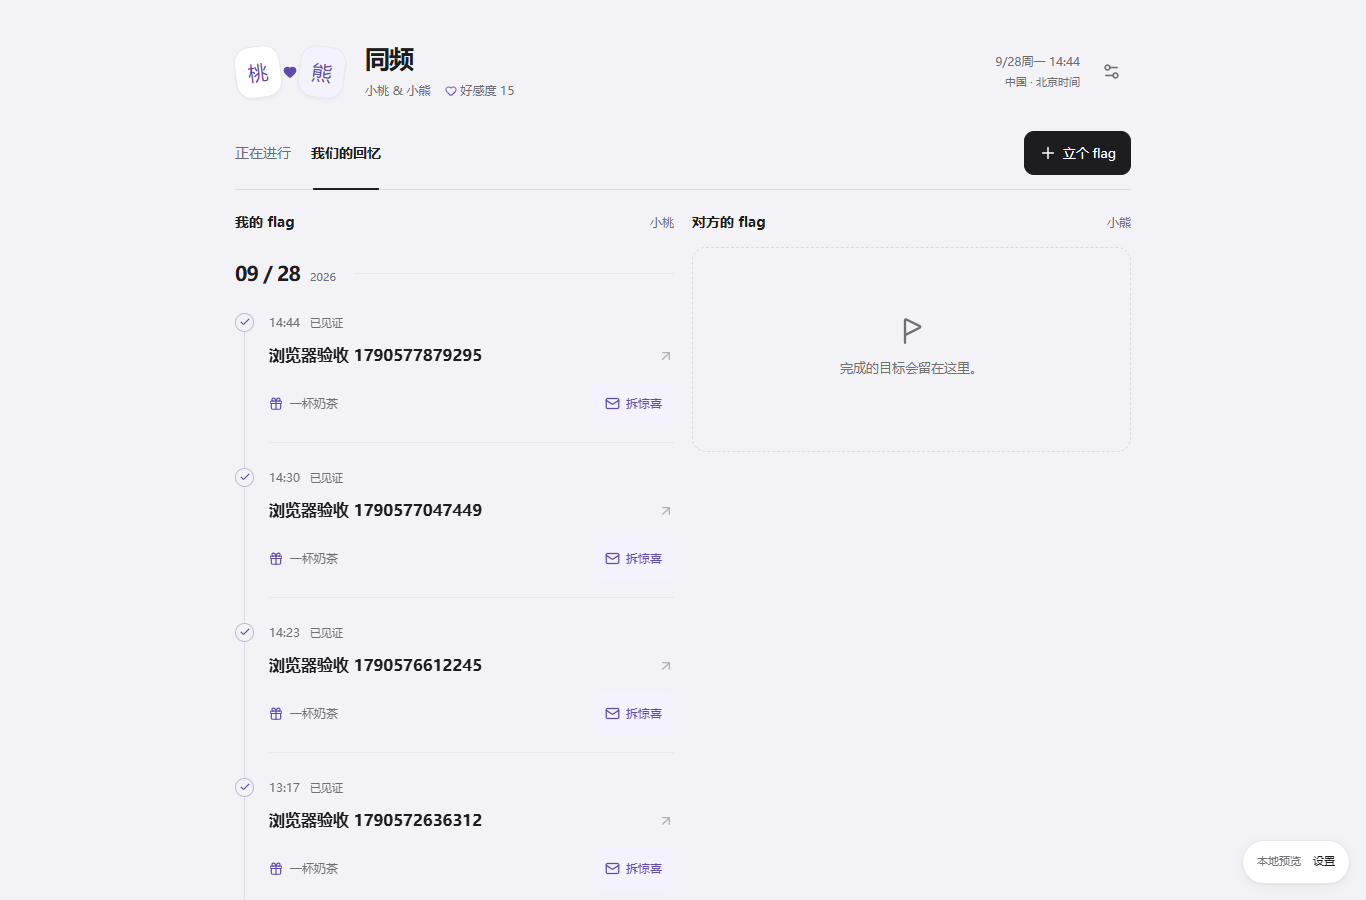
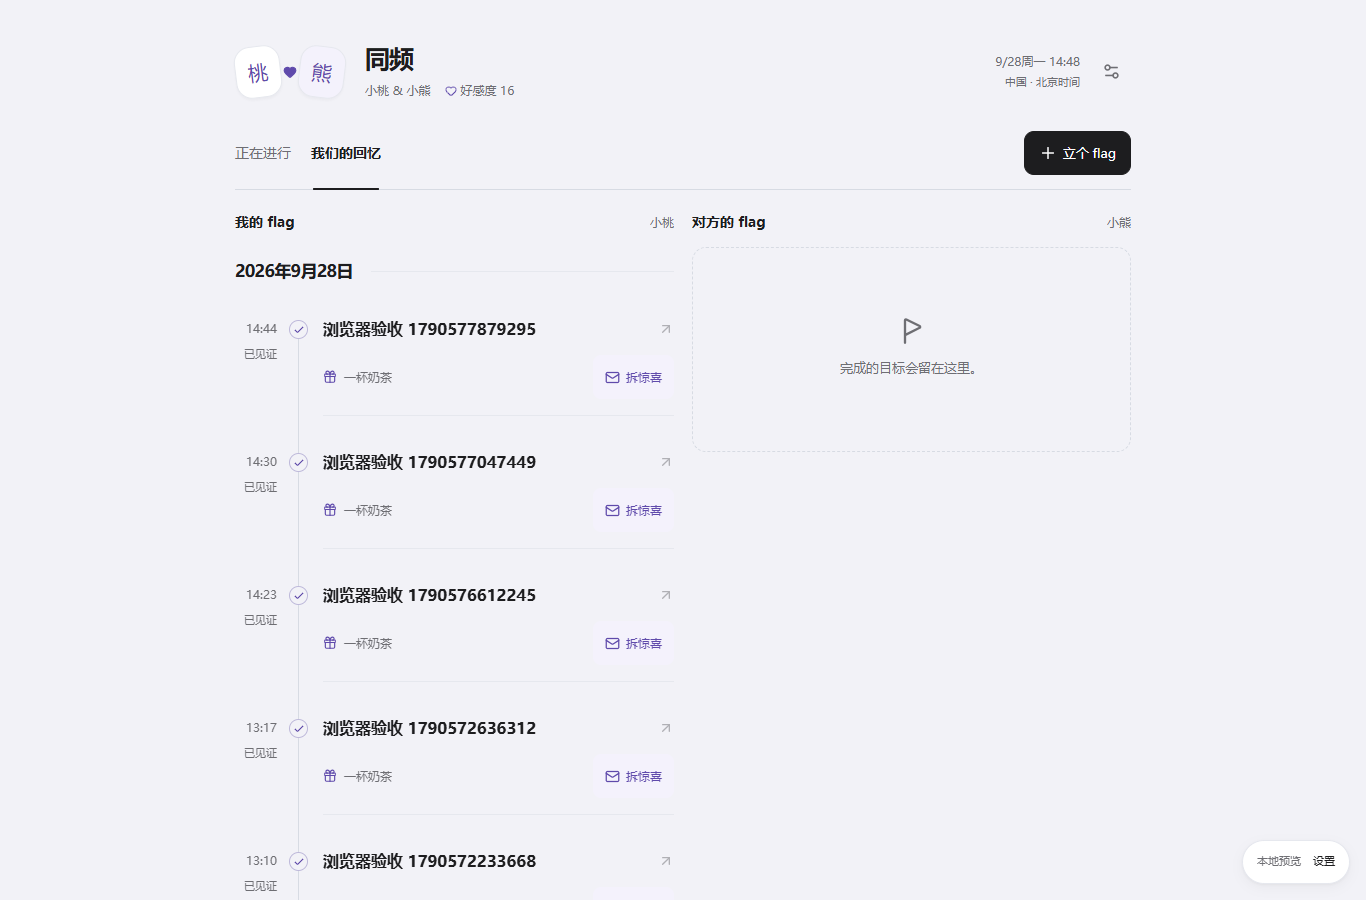
ui(together)：将回忆时刻移至左侧并明确完整日期

diff --git a/src/features/together/memory-timeline.tsx b/src/features/together/memory-timeline.tsx
@@ -1,4 +1,4 @@
-/** @fileoverview 回忆按查看者本地日期归档；细线连接完成节点，保留奖励与惊喜入口。 */
+/** @fileoverview 回忆按查看者本地日期归档；左侧显示日期与时刻，右侧保留目标、奖励与惊喜。 */
 'use client';
 import { ArrowUpRight, Check, Gift, Mail } from 'lucide-react';
 import { accountClockParts } from '@/lib/account-clock';
@@ -30,8 +30,9 @@ export function MemoryTimeline({
         <section className="together-memory-day" key={day} aria-label={day}>
           <h3>
             <time dateTime={day}>
-              <b>{day.slice(5).replace('-', ' / ')}</b>
-              <span>{day.slice(0, 4)}</span>
+              <b>
+                {day.slice(0, 4)}年{Number(day.slice(5, 7))}月{Number(day.slice(8))}日
+              </b>
             </time>
             <span className="together-memory-rule" aria-hidden="true" />
           </h3>
@@ -41,18 +42,18 @@ export function MemoryTimeline({
                 <span className="together-memory-dot" aria-hidden="true">
                   <Check size={12} />
                 </span>
+                <time
+                  className="together-memory-time"
+                  dateTime={flag.completed_at!}
+                  title={`${spaceTime(flag.completed_at!, zone)} · ${zone}`}
+                >
+                  {accountClockParts(new Date(flag.completed_at!), zone).time.slice(
+                    0,
+                    5,
+                  )}
+                  <span>已见证</span>
+                </time>
                 <div className="together-memory-content">
-                  <time
-                    className="together-memory-time"
-                    dateTime={flag.completed_at!}
-                    title={`${spaceTime(flag.completed_at!, zone)} · ${zone}`}
-                  >
-                    {accountClockParts(new Date(flag.completed_at!), zone).time.slice(
-                      0,
-                      5,
-                    )}
-                    <span>已见证</span>
-                  </time>
                   <button
                     className="together-memory-title"
                     onClick={() => onOpen(flag)}

diff --git a/src/features/together/memory-timeline.css b/src/features/together/memory-timeline.css
@@ -1,4 +1,4 @@
-/* 文件用途：回忆时间轴用日期、细线和完成节点替代重复的大卡片，跟随空间主题。 */
+/* 文件用途：左侧时间刻度与完整日期、中央细线、右侧成果构成轻量回忆时间轴。 */
 .together-memory-day {
   margin-bottom: 28px;
 }
@@ -15,7 +15,7 @@
   white-space: nowrap;
 }
 .together-memory-day h3 b {
-  font-size: 20px;
+  font-size: 17px;
   font-weight: 600;
   letter-spacing: -0.04em;
   font-variant-numeric: tabular-nums;
@@ -37,14 +37,14 @@
 }
 .together-memory-entry {
   position: relative;
-  padding: 0 0 24px 34px;
+  padding: 0 0 24px 88px;
 }
 .together-memory-entry::before {
   content: '';
   position: absolute;
-  left: 9px;
-  top: 16px;
-  bottom: -4px;
+  left: 63px;
+  top: 28px;
+  bottom: -14px;
   width: 1px;
   background: var(--border-strong);
 }
@@ -54,8 +54,8 @@
 }
 .together-memory-dot {
   position: absolute;
-  top: 1px;
-  left: 0;
+  top: 13px;
+  left: 54px;
   width: 19px;
   height: 19px;
   border: 1px solid color-mix(in srgb, var(--together-tone) 30%, var(--border));
@@ -74,9 +74,14 @@
   border-bottom: 0;
 }
 .together-memory-time {
+  position: absolute;
+  left: 0;
+  top: 11px;
+  width: 42px;
   display: flex;
-  align-items: center;
-  gap: 10px;
+  flex-direction: column;
+  align-items: flex-end;
+  gap: 3px;
   font-size: 12px;
   line-height: 22px;
   color: var(--text-secondary);

diff --git a/e2e/together.spec.ts b/e2e/together.spec.ts
@@ -139,6 +139,13 @@ test('四主题深浅色与手机布局，无横向溢出', async ({ page }) => 
         ).toBeVisible();
         await page.getByRole('button', { name: '我们的回忆', exact: true }).click();
         await expect(page.locator('.together-memory-entry').first()).toBeVisible();
+        const entry = page.locator('.together-memory-entry').first();
+        const clock = await entry.locator('.together-memory-time').boundingBox();
+        const content = await entry.locator('.together-memory-content').boundingBox();
+        expect(clock!.x + clock!.width).toBeLessThan(content!.x);
+        await expect(page.locator('.together-memory-day h3').first()).toContainText(
+          /\d{4}年\d{1,2}月\d{1,2}日/,
+        );
         expect(
           await page.evaluate(() => document.documentElement.scrollWidth <= innerWidth),
         ).toBe(true);

diff --git a/docs/together-copy.md b/docs/together-copy.md
@@ -133,6 +133,7 @@
 | 你在这里叫「                                                                 | binding.tsx                                                 |
 | 你做到啦。你的认真和努力，我都有好好看见。                                   | copy.ts                                                     |
 | 昵称双方可见，对方可以恢复自己的展示名。                                     | settings.tsx                                                |
+| 年                                                                           | memory-timeline.tsx                                         |
 | 情侣                                                                         | binding.tsx、copy.ts、settings.tsx                          |
 | 请                                                                           | flag-editor.tsx                                             |
 | 请补充一下                                                                   | copy.ts、flag-detail.tsx                                    |
@@ -154,6 +155,7 @@
 | 确认结束                                                                     | flag-detail.tsx                                             |
 | 确认解除绑定                                                                 | settings.tsx                                                |
 | 确认了新的关系                                                               | supabase/migrations/202609280001_together.sql               |
+| 日                                                                           | memory-timeline.tsx                                         |
 | 上次提交结果尚未确认，请先按原内容重试，或关闭后核对最新记录。               | use-command.ts                                              |
 | 生成邀请码                                                                   | binding.tsx                                                 |
 | 实时连接暂不可用，回到页面会重新读取。                                       | state.tsx                                                   |
@@ -202,6 +204,7 @@
 | 以前的空间                                                                   | settings.tsx                                                |
 | 有效至                                                                       | binding.tsx                                                 |
 | 与                                                                           | settings.tsx                                                |
+| 月                                                                           | memory-timeline.tsx                                         |
 | 再看一些                                                                     | flag-board.tsx                                              |
 | 在这里留一句奖励说明；照片或其他礼物通过微信发送。                           | flag-detail.tsx                                             |
 | 暂时无法完成操作，请重试。                                                   | use-command.ts                                              |

diff --git a/docs/together-space.md b/docs/together-space.md
@@ -20,7 +20,7 @@
 
 采用布局参考中的相关内容分组、渐进展示原则，以及可访问性参考中的明确焦点、44 像素触控目标与减少动态效果规则。重点是让目标先于说明进入视线，细节在操作时出现。
 
-回忆时间轴参考 [Ant Design Timeline](https://ant.design/components/timeline/) 与 [Mantine Timeline](https://mantine.dev/core/timeline/) 的细线、节点和时间层级，由项目自身组件实现，不增加 UI 依赖。双方仍独立分栏、独立分页；加载更多后按查看者账号的本地日期统一归档，同一天只显示一次日期标题。目标和拆惊喜入口打开原详情，惊喜正文保持收起。
+回忆时间轴参考 [Ant Design Timeline](https://ant.design/components/timeline/) 与 [Mantine Timeline](https://mantine.dev/core/timeline/) 的细线、节点和时间层级，由项目自身组件实现，不增加 UI 依赖。双方仍独立分栏、独立分页；加载更多后按查看者账号的本地日期统一归档，同一天只显示一次完整日期标题（如「2026年9月28日」）；每条记录的时刻放在线左侧，目标、奖励与惊喜在线右侧。目标和拆惊喜入口打开原详情，惊喜正文保持收起。
 
 详情沿用主题字体与按钮：桌面右侧 560 像素抽屉，手机全宽；验收表单居中，Escape 只退出最上层并返回打开按钮。情侣名称「同频」仅使入口更含蓄，空间内的昵称、心形与互动仍保留。
 
